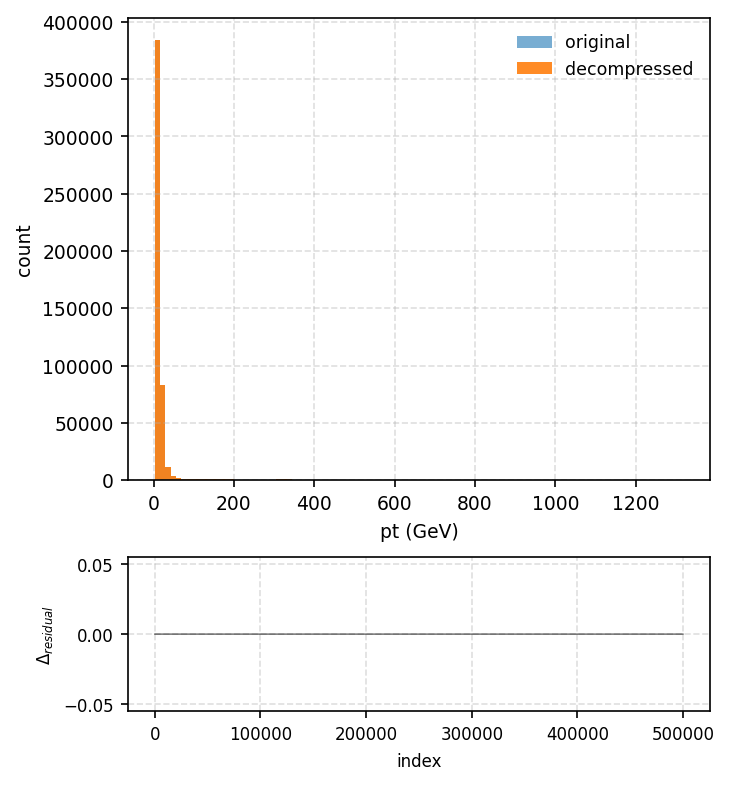
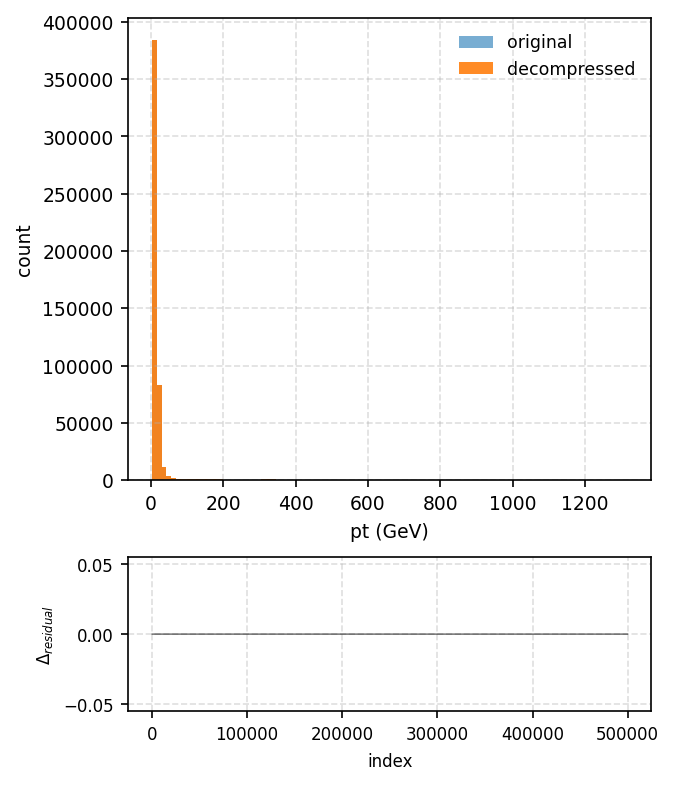
change plots for the paper

diff --git a/experiments/cms_experiment/plotting.py b/experiments/cms_experiment/plotting.py
@@ -66,7 +66,7 @@ def plot_columns(orig_rec, decomp_rec, names, out_dir: Path, nrows_to_plot=200,
 
         if create_hist:
             # Histogram plot (counts vs feature value) + residuals panel
-            fig = plt.figure(figsize=(5, 6))
+            fig = plt.figure(figsize=(4.5, 6))
             gs = fig.add_gridspec(2, 1, height_ratios=[3, 1], hspace=0.25)
             ax_h = fig.add_subplot(gs[0])
             ax_res = fig.add_subplot(gs[1])
